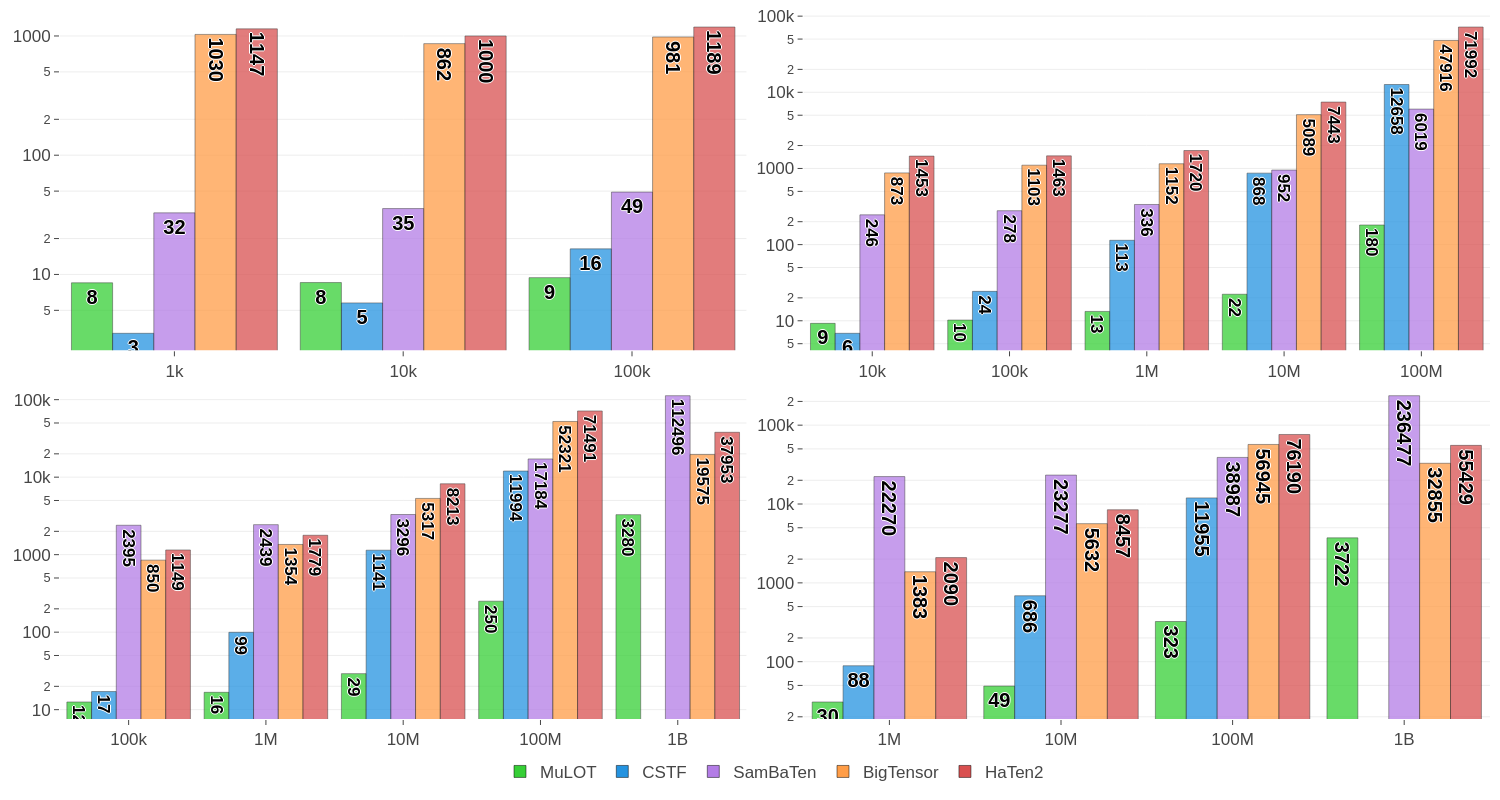
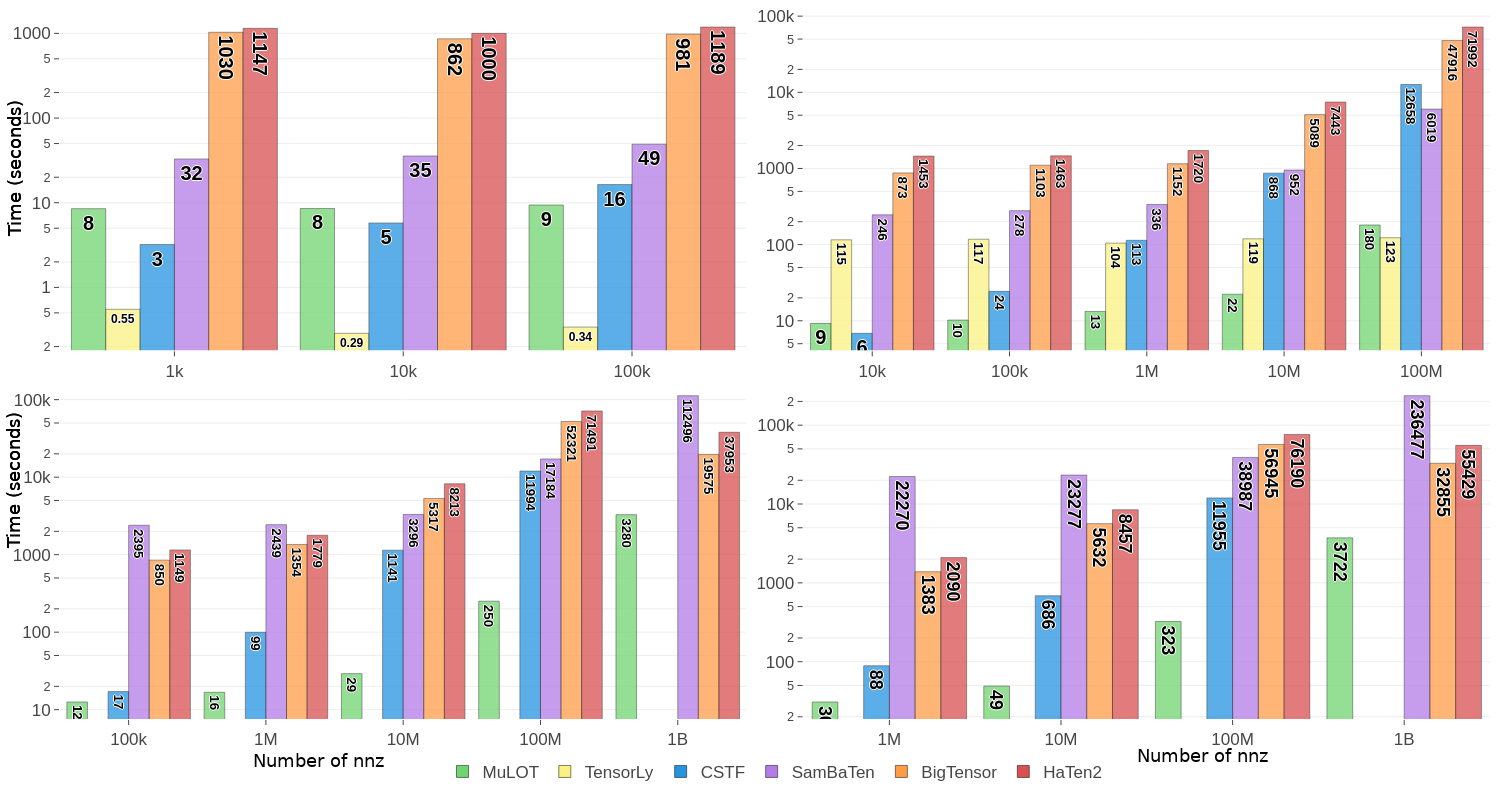
Add TensorLy to the benchmark

diff --git a/README.md b/README.md
@@ -26,6 +26,9 @@ Some optional parameters are available:
 The result of the decomposition is a Map[String, DataFrame], with keys being the original name of each dimension, associated with a DataFrame of 3 columns: the value of the dimension, the rank, and the value found with the CP decomposition.
 
 ## Experiments
-Our implementation have been tested to compare its execution time with other CP decomposition libraries made for large-scale tensors. The notebooks can be found in the experiments folder. MuLOT outperforms these libraries at large-scale, while being suitable for small and medium tensors analysis.
+Our implementation have been tested to compare its execution time with other CP decomposition libraries made for large-scale tensors. The notebooks can be found in the experiments folder. MuLOT outperforms these libraries at large-scale, while being suitable for small and medium tensors analysis. TensorLy is used as a reference of non-distributed library. 
 
 ![Benchmark results](experiments/CPALS_benchmark_dim3.png?raw=true "Benchmark results")
+
+## To cite the work
+GILLET, Annabelle, LECLERCQ, Éric, et CULLOT, Nadine. MuLOT: Multi-level Optimization of the Canonical Polyadic Tensor Decomposition at Large-Scale. In : European Conference on Advances in Databases and Information Systems. Springer, Cham, 2021. p. 198-212.

diff --git a/experiments/README.md b/experiments/README.md
@@ -1,0 +1,10 @@
+# Benchmark experiments
+Each notebook performs a CANDECOMP/PARAFAC decomposition on artificially created tensors, in order to compare the execution time of MuLOT against other libraries of the state of the art. The tested libraries are:
+- [BigTensor](https://datalab.snu.ac.kr/bigtensor/index.php)
+- [CSTF](https://github.com/ZacBlanco/cstf)
+- [HaTen2](https://datalab.snu.ac.kr/haten2/)
+- [SamBaTen](https://github.com/lucasjliu/SamBaTen-Spark)
+- [TensorLy](https://tensorly.org/stable/index.html)
+
+# Stratification method
+The stratification method gathers clusters of similar intensity in each stratum. To do so, the CANDECOMP/PARAFAC decomposition is executed with a rank R, the R clustes found (composed of the elements of each dimension that contribute the most to each rank) are removed from the input tensor, and the decomposition is executed anew to build the next stratum. Each new stratum is formed with clusters that have a lighter signal intensity than the previous stratum, so this method can be used to find weak signals in a dataset. 
